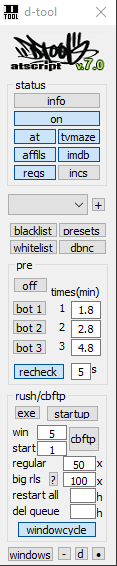
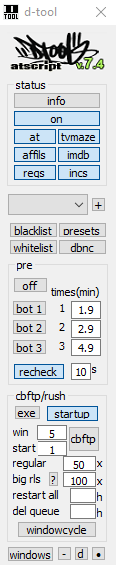
update v.7.4.1

diff --git a/Funktionsweise.html b/Funktionsweise.html
@@ -167,16 +167,20 @@ hängt das Script kein Datum an.<br>
         Man kann 2 verschiedene Clienten für die verschiedenen Aufgaben 
 wählen, wobei klar dazu geraden wird cbftp zum racen zu nutzen. <br>
         Bei Suchen und Raw-Befehlen ist die Suche an sich, technisch 
-gesehen, mit RushFTP viel schneller und zuverlässiger. Doch leider in 
-der Praxis wiederum nicht zuverlässiger, zumindest wenn man cbftp zum 
+gesehen, mit RushFTP schneller und zuverlässiger. Doch leider in 
+der Praxis wiederum nicht, zumindest wenn man cbftp zum 
 racen benutzt, denn es werden meistens alls Logins geblockt und FTPRush 
-guckt in die Röhre...aber die Suche per dll und FTPRush ist um einges 
+guckt in die Röhre. Aber die Suche per dll und FTPRush ist um einges 
 schneller und weniger aufwendig. Wenn man mit dem JSON Api Script sucht,
  dreht mIRC kurz mal durch...also bleibt hängen für ein paar Sekunden. Man braucht aber das JSON Script, da man nur damit mehrere Sites gleichzeitig durchsuchen oder Raw-Refehle senden kann. Für einzelne Sites kann man auch die http API von cbftp nutzen ohne JSON. Das geht ebenso sehr schnell.<br>
         Zudem sind die Suchergebnisse nicht so zuverlässig wie mit 
 FTPRush wie es scheint. Aber was hilft eine gut funktionierende Suche wenn keine Logins
  frei sind. Und das ist eben bei cbftp immer der Fall, der nimmt sich 
-die Logins einfach, somit wieder ein Vorteil.</p>
+die Logins einfach, somit wieder ein Vorteil.<br />
+<br />
+      Bezüglich racing mit cbftp: <br />
+       d-tool gleicht die Fillsites, die man auf einer Site einstellt, immer auch mit cbftp ab. Wenn die Site auf der Site in cbftp nicht als Target angegeben ist, added d-tool sie. Andersherum löscht d-tool das Target aber nicht, wenn man sie wieder wegnimmt als Fillsite. Den Automatismus halte ich für unklug, da ich es für klug halte tendenziell eher mehreren Sites es zu erlauben auf einer Site  zu fillen, so hat man immer nette nebeneffekte bzw. so hat man schnell mal Vorteile durch das super spreadsystem von cbftp. Zudem würde das eben bedeuten, dass die Sources/Targets der Sites in cbftp immer den Fillsites in d-tool entsprechen. Aus zuvor genannten Gründen eben nicht wirklich schlau, es ist eher von Vorteil wenn man das nochmal selber durch den Befehl /dcbsync
+      managen kann wie man es gerne haben möchte. Das soll frei und unabhängig bleiben. Es macht eber eben keinen Sinn eine Fillsite irgendwo einzustellen, die nicht als Target in cbftp eingestellt ist, somit ist der einseitige automatismus sehr Hilfreich.</p>
     <p class="normalschrift">&nbsp;</p></td>
     <td width="228">&nbsp;</td>
   </tr>

diff --git a/MainSetup.html b/MainSetup.html
@@ -228,12 +228,12 @@ wenn man neben Sitechans viele andere offen hat. Reine
 Performance-Option</p>
 <p class="normalschrift">&nbsp;</p></td>
     <td width="556" valign="top" align="center"><p>&nbsp;</p>
-      <p><img src="MainSetup-Dateien/menu-main.png" width="117" height="566"></p>
+      <p><img src="MainSetup-Dateien/menu-main.png" width="116" height="565"></p>
       <p><img src="MainSetup-Dateien/presets.png" width="542" height="61"></p>
       <p><img src="MainSetup-Dateien/prebot.png" width="499" height="52"></p>
       <p><img src="MainSetup-Dateien/prechans.png" width="468" height="72"></p>
 <p>&nbsp;</p>
-<p><img src="MainSetup-Dateien/menu-main.png" alt="" width="117" height="566"></p>
+<p><img src="MainSetup-Dateien/menu-main.png" alt="" width="116" height="565"></p>
     <p>&nbsp;</p>
     <p><img src="MainSetup-Dateien/menu-windows.png" width="118" height="151"></p>
 <p>&nbsp;</p>

diff --git a/index.html b/index.html
@@ -112,7 +112,7 @@ body {
 <p>Hilfeseite des d-tool</p>
       <p>&nbsp;</p>
 <p class="normalschrift1">&nbsp;</p></td>
-    <td class="normalschrift1" width="226" valign="top"><span class="minischrift">dt.v.7.4</span></td>
+    <td class="normalschrift1" width="226" valign="top"><span class="minischrift">dt.v.7.4.1</span></td>
   </tr>
 </tbody></table>
    </div>
